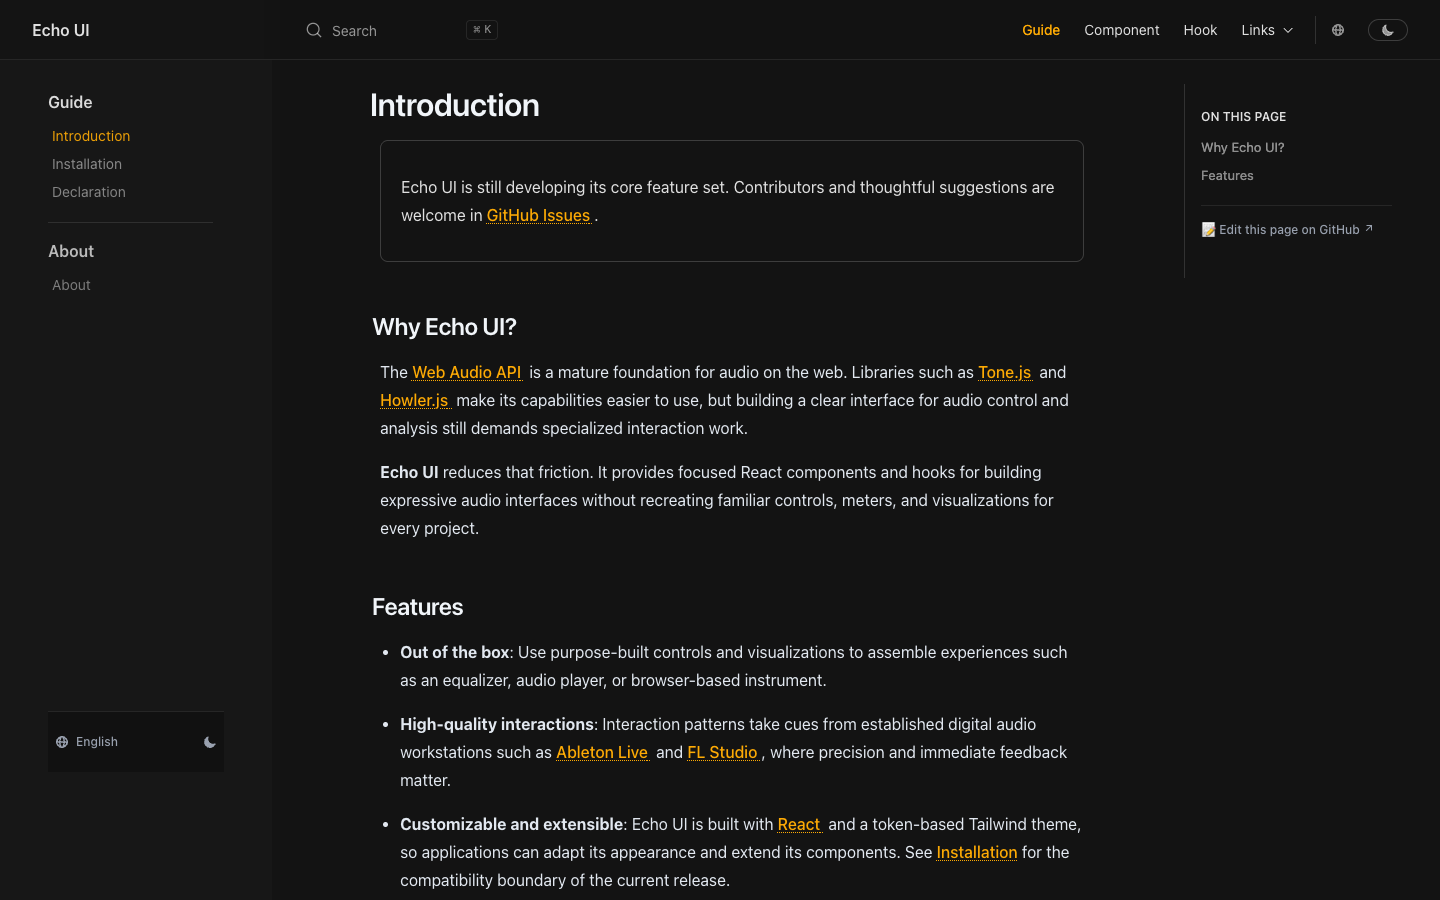
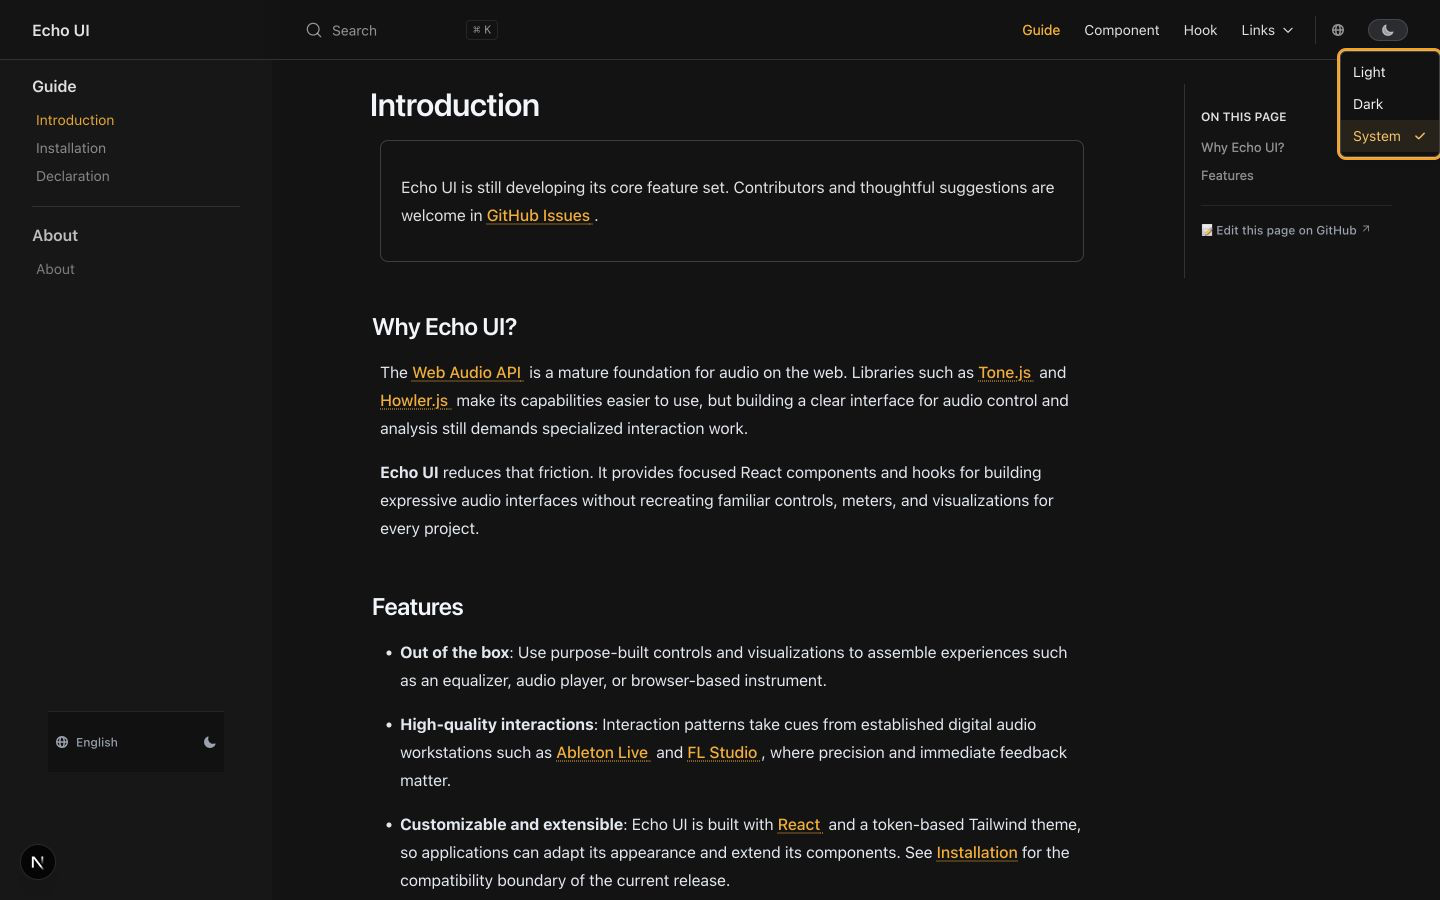
chore(loop): record issue 108 review repair evidence

diff --git a/loops/issue-dev-loop/handoffs/20260724T132107Z-issue-108-743034/review-repair-1.md b/loops/issue-dev-loop/handoffs/20260724T132107Z-issue-108-743034/review-repair-1.md
@@ -1,0 +1,113 @@
+# Review repair handoff 1
+
+- Run ID: `20260724T132107Z-issue-108-743034`
+- Issue: https://github.com/codeacme17/echo-ui/issues/108
+- Draft PR: https://github.com/codeacme17/echo-ui/pull/111
+- Frozen base: `9eea05360a90e46a4c66c2e821e9ad5bd6c71c67`
[1 lines of base64/hex data omitted]
+- Current Draft head: `c5100509fb33fc68ff36089c92cfb43c2ab22424`
+- Prior recorded implementation commit: `4b9818f7c2a77f4dea87c4eceb188bd41facb367`
+- Review: https://github.com/codeacme17/echo-ui/pull/111#pullrequestreview-4779373856
+- Review submitted: `2026-07-25T14:04:06Z`
+
+PR #111 has been returned to Draft by the owner. Ethandasw classifies all six
+round-one findings as `accepted`. There is no disputed P0/P1 finding and no owner
+product decision is required for the repairs below.
+
+Read the immutable implementation brief at
+`loops/issue-dev-loop/handoffs/20260724T132107Z-issue-108-743034/implementation-brief.md`
+before changing code. Preserve every frozen acceptance criterion and stop condition.
+
+## Required repairs
+
+### RVW-1-1-1 — P1 — remove the verifier shim
+
+- Remove `LegacyVerifierBridge` and every hidden sentinel DOM node or import used
+  to satisfy the legacy verifier.
+- Synchronize root `scripts/verify-docs-ui.mjs` exactly to the owner-merged
+  `origin/dev` tree entry. Its required blob is
+  `8eef39bca71e2b3c66fb6a97d480298a0e4315a1`; do not hand-edit or diverge from
+  that blob.
+- Prove the shipped UI has no `[data-legacy-verifier]` element and that the real
+  Nextra footer/sidebar behavior satisfies the maintained contract.
+- Do not modify any other protected control, workflow, package, or verification
+  file.
+
+### RVW-1-1-2 — P1 — restore equivalent live variants
+
+- Restore the Knob Rotation Angle Range example with the equivalent 360°, 270°,
+  and 180° controls.
+- Replace the fixed Spectrogram EQ3 placeholder with lifecycle-safe interactive
+  LOW/MID/HIGH controls and a real audio action matching the preserved Island
+  scenario while retaining current Tone.js 15 and accessibility behavior.
+- Add interaction coverage for both repaired examples.
+
+### RVW-1-1-3 — P2 — document actual Input data attributes
+
+- Document the runtime-authoritative `data-bilateral` values and semantics. A
+  default Input emits `positive`; bilateral direction may emit `positive` or
+  `negative`. Do not claim the value is `false` when runtime never emits it.
+- Add a runtime-rendered assertion covering the default and bilateral states.
+
+### RVW-1-1-4 — P2 — make group examples interactive
+
+- Back Button, Checkbox, and Radio controlled group previews with local state and
+  `onChange`, preserving accessible labels.
+- Ensure the adjacent copied source uses the same functional controlled pattern.
+- Add interaction tests proving selection changes.
+
+### RVW-1-1-5 — P2 — prevent preview/source drift
+
+- Make the Switch Custom Styling source reproduce its actual preview.
+- Make the VU Meter custom-color preview and source target runtime-emitted
+  `data-active` values (`none`, `low`, `medium`, or `high`), never `true`.
+- Prefer a shared descriptor or another single source of truth for rendering and
+  displayed source where practical.
+- Add source/render or computed-style assertions that fail on drift.
+
+### RVW-1-1-6 — P2 — bind inventory to every localized route
+
+- Add route-bound or rendered assertions for every component page in English and
+  Chinese.
+- Verify that each route mounts its expected variant matrix and exposes the
+  expected labels/count, rather than testing only the shared data object or a few
+  representative routes.
+
+## TDD and verification
+
+Write or strengthen failing tests at each seam before implementation. Run focused
+tests during development, then all of the following before committing:
+
+- targeted Vitest tests for component variants, group interactions, runtime data
+  attributes, source/preview parity, and bilingual route inventory
+- `pnpm lint`
+- `pnpm typecheck:docs`
+- `pnpm build:docs`
+- `pnpm test:docs`
+- `pnpm verify`
+- `$code-review` against the resulting diff, resolving actionable findings before
+  the final commit
+
+Do not weaken, delete, or skip a failing test. Do not add a production dependency,
+change package/runtime API, alter release behavior, or expand beyond the frozen
+brief. Stop and report if any such decision becomes necessary.
+
+## Commit and result contract
+
+Commit the repair locally on `codex/issue-108` as a descendant of
+`c5100509fb33fc68ff36089c92cfb43c2ab22424`. Stage only the repair's product,
+documentation, test, and exact allowlisted verifier-sync paths; do not include
+restored checkpoint files or unrelated changes.
+
+After committing, write but do not commit:
+
+`loops/issue-dev-loop/logs/runs/20260724T132107Z-issue-108-743034/implementation-result-3.json`
+
+It must match `schemas/implementation-result.schema.json`, use `agent: "$implement"`,
+contain a unique invocation ID and ordered UTC timestamps, bind the frozen brief
+digest and new 40-character commit SHA, and list every passed check including the
+exact `pnpm verify` command.
+
+Stop after the local commit and result file. Do not push, update the PR, post
+comments, mark Ready, approve, or merge. Screenshot/evidence rebinding to the new
+implementation commit will be handled after `record-implementation`.

diff --git a/loops/issue-dev-loop/screen-shots/20260724T132107Z-issue-108-743034/INDEX.md b/loops/issue-dev-loop/screen-shots/20260724T132107Z-issue-108-743034/INDEX.md
@@ -6,25 +6,25 @@ route, and viewport for mechanical validation.
 
 | Scenario | Route | Viewport | Evidence |
 | --- | --- | --- | --- |
-| `root-language` | `/` | 1440×900, light | The editorial language picker becomes an automatic redirect to `/en/`. |
-| `guide-introduction-pagination-footer` | `/en/guide/introduction/` | 1440×900, light | Previous/next navigation and the visible license/copyright footer are restored. |
-| `guide-about-wechat` | `/en/guide/about/` | 1440×900, dark | The About route regains its WeChat option and shipped QR image. |
-| `guide-mobile-navigation` | `/zh/guide/introduction/` | 390×844, dark | The localized mobile section navigation opens with its expanded state. |
-| `guide-locale-switch` | `/en/guide/introduction/` | 1440×900, light | The locale switch opens from the desktop header. |
-| `guide-theme-switch` | `/en/guide/introduction/` | 1440×900, light→dark | The theme control applies the dark document theme. |
-| `guide-edit-link` | `/en/guide/introduction/` | 1440×900, light | The page-level GitHub edit control is visible. |
-| `controller-button-code-copy` | `/zh/component/button/` | 390×844, light | Preview/Code switching and the localized source-copy success state are present. |
-| `controller-button-keyboard-reduced-motion` | `/en/component/button/` | 1440×900, light, reduced motion | Arrow-key tab focus is visible while reduced-motion emulation is active. |
-| `controller-knob-responsive` | `/en/component/knob/` | 390×844, dark | The complete Knob variant matrix fits without horizontal overflow. |
-| `visualization-spectrogram-links` | `/zh/component/spectrogram/` | 1440×900, light | Visualization variants render and the Links menu exposes GitHub, Discord, and Twitter. |
-| `hook-use-player-audio` | `/en/hook/usePlayer/` | 1440×900, dark | A real-audio action exposes the Hook demo’s runtime state and lifecycle UI. |
+| `root-language` | `/` | 1440×900 | The root route resolves to the English documentation experience. |
+| `guide-introduction-pagination-footer` | `/en/guide/introduction/` | 1440×900 | Previous/next navigation and the visible license/copyright footer are restored. |
+| `guide-about-wechat` | `/en/guide/about/` | 1440×900 | The About route regains its WeChat option and shipped QR image. |
+| `guide-mobile-navigation` | `/zh/guide/introduction/` | 390×844 | The localized mobile section navigation opens with its expanded state. |
+| `guide-locale-switch` | `/en/guide/introduction/` | 1440×900 | The locale switch opens from the desktop header. |
+| `guide-theme-switch` | `/en/guide/introduction/` | 1440×900 | The theme menu exposes light, dark, and system choices. |
+| `guide-edit-link` | `/en/guide/introduction/` | 1440×900 | The page-level GitHub edit control is visible. |
+| `controller-button-code-copy` | `/zh/component/button/` | 390×844 | The controlled Button group’s code tab and copy control are visible. |
+| `controller-button-keyboard-reduced-motion` | `/en/component/button/` | 1440×900 | The controlled waveform selection visibly updates to Triangle. |
+| `controller-knob-responsive` | `/en/component/knob/` | 390×844 | The distinct 360°, 270°, and 180° variants fit without horizontal overflow. |
+| `visualization-spectrogram-links` | `/zh/component/spectrogram/` | 1440×900 | The real three-band EQ3 example reaches its live Playing state. |
+| `hook-use-player-audio` | `/en/hook/usePlayer/` | 1440×900 | A real-audio action exposes the Hook demo’s running state and progress UI. |
 
 The before images were captured from frozen base
 `9eea05360a90e46a4c66c2e821e9ad5bd6c71c67`. The after images were freshly
 captured from the repaired product at commit
-`7aa9454f8a5da1cb5045864fdf1b7350744ae8df` after `pnpm verify` completed.
-The evidence commit only reorganizes these PNGs; it does not change the rendered
-product state they record.
+`bf27c3d1f05d80898f7d7932a901cc3c716e02df` after `pnpm verify` completed.
+The evidence commit binds the refreshed PNGs and run metadata; it does not
+change the rendered product state they record.
 
 Deterministic non-image checks complement the captures:
 
